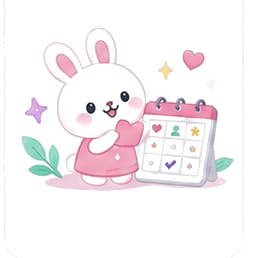
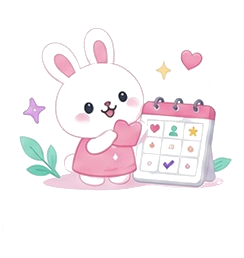
Add files via upload

diff --git a/sidebar-v35.css b/sidebar-v35.css
@@ -304,3 +304,154 @@
     border-radius:0!important;
   }
 }
+
+
+/* =========================================================
+   SIDEBAR V35.5 — FINAL OVERRIDE
+   - iPad/Desktop sidebar fixed in place
+   - solid hero-pink sidebar background
+   - larger transparent logo + mascot
+   - active page gets a slightly darker matching edge
+   ========================================================= */
+
+/* Desktop + iPad only */
+@media (min-width:821px){
+  #appSidebar.sidebar{
+    position:fixed!important;
+    left:0!important;
+    top:0!important;
+    bottom:0!important;
+    height:100dvh!important;
+    min-height:100dvh!important;
+    z-index:60!important;
+
+    /* same pink family as the hero right side */
+    background:#ffeaf3!important;
+    border-right:1px solid #f2cfdd!important;
+    box-shadow:4px 0 14px rgba(224,92,139,.06)!important;
+
+    display:flex!important;
+    flex-direction:column!important;
+    overflow:hidden!important;
+  }
+
+  #appSidebar .brand.v24-brand{
+    flex:0 0 184px!important;
+    height:184px!important;
+    min-height:184px!important;
+    padding:0!important;
+    margin:0!important;
+    background:transparent!important;
+    border:0!important;
+    box-shadow:none!important;
+    overflow:visible!important;
+  }
+
+  #appSidebar .sidebar-brand-image{
+    content:url("sidebar-logo-transparent.png")!important;
+    width:202px!important;
+    max-width:none!important;
+    height:172px!important;
+    object-fit:contain!important;
+    margin:auto!important;
+    padding:0!important;
+    background:transparent!important;
+    border:0!important;
+    border-radius:0!important;
+    box-shadow:none!important;
+  }
+
+  #appSidebar .sidebar-v35{
+    flex:1 1 auto!important;
+    min-height:0!important;
+    display:flex!important;
+    flex-direction:column!important;
+    justify-content:center!important;
+    gap:7px!important;
+    padding:6px 0!important;
+    margin:0!important;
+  }
+
+  #appSidebar .v24-sidebar-mascot{
+    position:relative!important;
+    left:auto!important;
+    right:auto!important;
+    top:auto!important;
+    bottom:auto!important;
+    flex:0 0 178px!important;
+    width:100%!important;
+    height:178px!important;
+    min-height:178px!important;
+    margin:0!important;
+    padding:0!important;
+
+    background:
+      url("sidebar-mascot-transparent.png")
+      center center / 196px auto no-repeat!important;
+
+    border:0!important;
+    border-radius:0!important;
+    box-shadow:none!important;
+    overflow:visible!important;
+  }
+
+  #appSidebar .v24-sidebar-mascot > *{
+    display:none!important;
+  }
+}
+
+/* Active-page edge: same hue as each button, just slightly darker */
+#appSidebar .sidebar-v35 a[data-page="home"]     { --nav-active-border:#ef9fbd; }
+#appSidebar .sidebar-v35 a[data-page="roster"]   { --nav-active-border:#8fd8c5; }
+#appSidebar .sidebar-v35 a[data-page="people"]   { --nav-active-border:#b7a9e8; }
+#appSidebar .sidebar-v35 a[data-page="rules"]    { --nav-active-border:#eda7b0; }
+#appSidebar .sidebar-v35 a[data-page="holidays"] { --nav-active-border:#e8cf7b; }
+#appSidebar .sidebar-v35 a[data-page="history"]  { --nav-active-border:#9dd0ec; }
+#appSidebar .sidebar-v35 a[data-page="summary"]  { --nav-active-border:#e8b685; }
+#appSidebar .sidebar-v35 a[data-page="internal"] { --nav-active-border:#e3a6bf; }
+#appSidebar .sidebar-v35 a[data-page="settings"] { --nav-active-border:#91d5c1; }
+
+#appSidebar .sidebar-v35 a[data-page].active{
+  border:2px solid var(--nav-active-border)!important;
+  transform:none!important;
+  box-shadow:
+    0 4px 10px rgba(72,50,65,.08),
+    inset 0 1px 0 rgba(255,255,255,.75)!important;
+}
+
+/* iPad landscape: keep sidebar fixed and make art visibly larger */
+@media (min-width:821px) and (max-width:1180px){
+  #appSidebar.sidebar{
+    width:190px!important;
+    min-width:190px!important;
+    padding:5px 9px!important;
+  }
+
+  .main-shell{
+    margin-left:190px!important;
+    width:calc(100% - 190px)!important;
+  }
+
+  #appSidebar .brand.v24-brand{
+    flex-basis:150px!important;
+    height:150px!important;
+    min-height:150px!important;
+  }
+
+  #appSidebar .sidebar-brand-image{
+    width:176px!important;
+    height:142px!important;
+  }
+
+  #appSidebar .sidebar-v35{
+    gap:5px!important;
+    padding:4px 0!important;
+  }
+
+  #appSidebar .v24-sidebar-mascot{
+    flex-basis:146px!important;
+    height:146px!important;
+    min-height:146px!important;
+    background-size:168px auto!important;
+  }
+}

diff --git a/index.html b/index.html
@@ -2395,7 +2395,7 @@ header{background:#fff!important;border-bottom:1px solid #f2ece6!important}
 
 <link rel="stylesheet" href="home-v28.css?v=28.5">
 <link rel="stylesheet" href="summary-v34.css?v=34.8">
-<link rel="stylesheet" href="sidebar-v35.css?v=35.3">
+<link rel="stylesheet" href="sidebar-v35.css?v=35.5">
 </head>
 <body>
 
